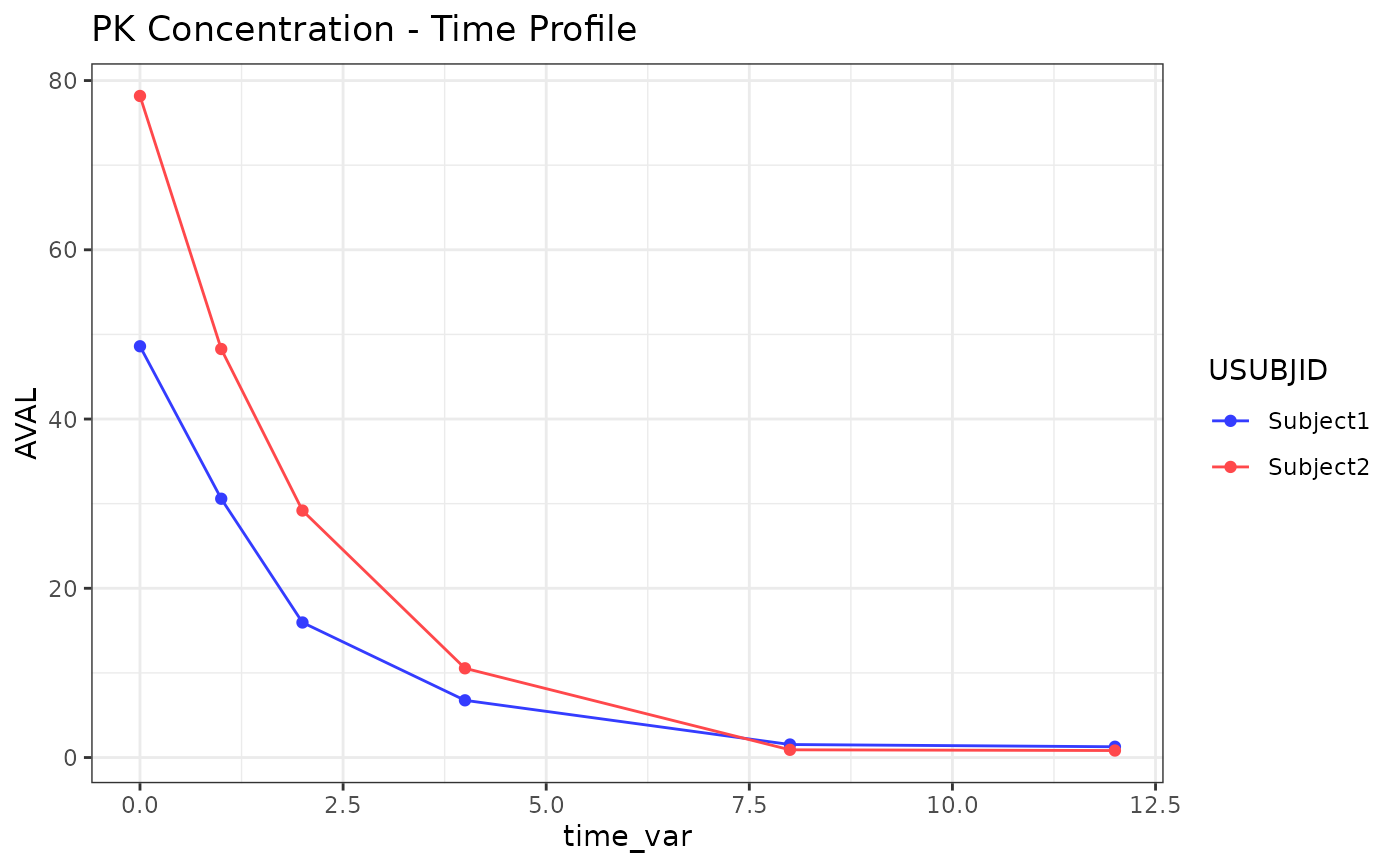
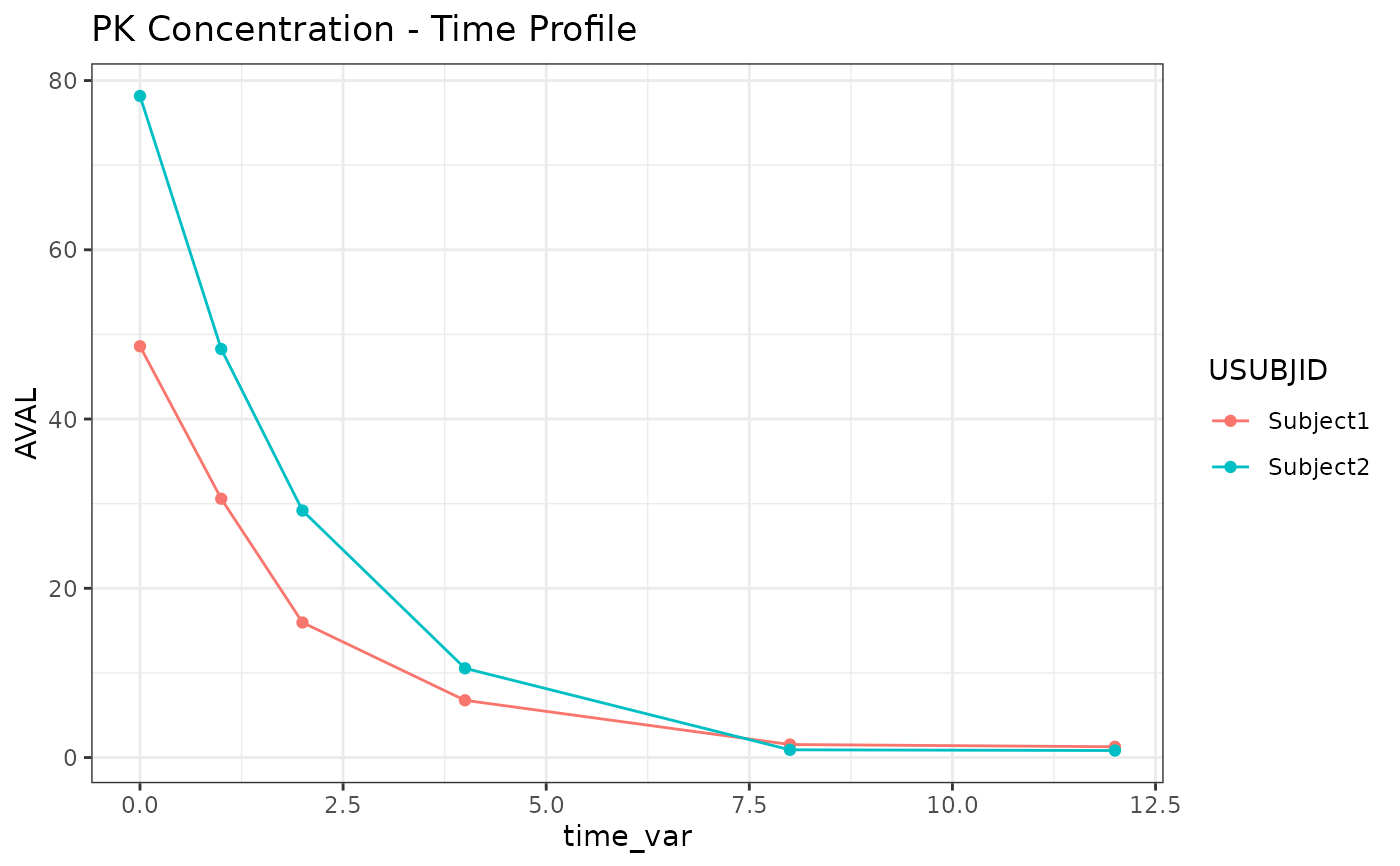
Deploying to gh-pages from @ pharmaverse/aNCA@871a818d39f535f6aef3d66d2971192fcff2b772 🚀

diff --git a/news/index.html b/news/index.html
@@ -7,7 +7,7 @@
 
     <a class="navbar-brand me-2" href="../index.html">aNCA</a>
 
-    <small class="nav-text text-muted me-auto" data-bs-toggle="tooltip" data-bs-placement="bottom" title="">0.1.0.9174</small>
+    <small class="nav-text text-muted me-auto" data-bs-toggle="tooltip" data-bs-placement="bottom" title="">0.1.0.9175</small>
 
 
     <button class="navbar-toggler" type="button" data-bs-toggle="collapse" data-bs-target="#navbar" aria-controls="navbar" aria-expanded="false" aria-label="Toggle navigation">
@@ -194,10 +194,15 @@
 <li>TMAX label corrected from “Time of CMAX” to “Time of CMAX Observation” (<a href="https://github.com/pharmaverse/aNCA/issues/787" class="external-link">#787</a>)</li>
 <li>Pagination controls in the slope selector are less buggy (<a href="https://github.com/pharmaverse/aNCA/issues/956" class="external-link">#956</a>)</li>
 </ul></div>
+<div class="section level4">
+<h4 id="tlg-development-version">TLG<a class="anchor" aria-label="anchor" href="#tlg-development-version"></a></h4>
+<ul><li>Fixed one-sided whiskers (Upper/Lower) collapsing to zero height in mean plots (<code>pkcg03</code>) (<a href="https://github.com/pharmaverse/aNCA/issues/1316" class="external-link">#1316</a>)</li>
+</ul></div>
 </div>
 <div class="section level3">
 <h3 id="dependency-changes-development-version">Dependency changes<a class="anchor" aria-label="anchor" href="#dependency-changes-development-version"></a></h3>
-<ul><li>
+<ul><li>Removed <code>tern</code> and <code>nestcolor</code> — TLG plots (<code>pkcg01</code>, <code>pkcg02</code>, <code>pkcg03</code>) now use inline ggplot2 code (<a href="https://github.com/pharmaverse/aNCA/issues/1316" class="external-link">#1316</a>)</li>
+<li>
 <code>rlistings</code>, <code>officer</code>, and <code>flextable</code> moved from Imports to Suggests — the app notifies users when these are missing (<a href="https://github.com/pharmaverse/aNCA/issues/1106" class="external-link">#1106</a>)</li>
 <li>Removed <code>methods</code>, <code>scales</code>, and <code>stringr</code> from package dependencies, replaced with base R equivalents (<a href="https://github.com/pharmaverse/aNCA/issues/1108" class="external-link">#1108</a>)</li>
 <li>Settings YAML units accept minimal format: just <code>PPTESTCD</code> and <code>PPSTRESU</code> (<a href="https://github.com/pharmaverse/aNCA/issues/1027" class="external-link">#1027</a>)</li>

diff --git a/authors.html b/authors.html
@@ -7,7 +7,7 @@
 
     <a class="navbar-brand me-2" href="index.html">aNCA</a>
 
-    <small class="nav-text text-muted me-auto" data-bs-toggle="tooltip" data-bs-placement="bottom" title="">0.1.0.9174</small>
+    <small class="nav-text text-muted me-auto" data-bs-toggle="tooltip" data-bs-placement="bottom" title="">0.1.0.9175</small>
 
 
     <button class="navbar-toggler" type="button" data-bs-toggle="collapse" data-bs-target="#navbar" aria-controls="navbar" aria-expanded="false" aria-label="Toggle navigation">
@@ -101,13 +101,13 @@
 
       <p>Suekuer E, Rodriguez G, Baertschi P, Spinner J, Kolomanski M, Aspridis L, Legras V (2025).
 “aNCA: A Dynamic Shiny App to perform NCA.”
-Version 0.1.0.9174; License: Apache-2.0, <a href="https://github.com/pharmaverse/aNCA" class="external-link">https://github.com/pharmaverse/aNCA</a>.
+Version 0.1.0.9175; License: Apache-2.0, <a href="https://github.com/pharmaverse/aNCA" class="external-link">https://github.com/pharmaverse/aNCA</a>.
 </p>
       <pre>@Unpublished{,
   title = {aNCA: A Dynamic Shiny App to perform NCA},
   author = {Ercan Suekuer and Gerardo Jose Rodriguez and Pascal Baertschi and Jana Spinner and Mateusz Kolomanski and Lucy Aspridis and Valentin Legras},
   year = {2025},
-  note = {Version 0.1.0.9174; License: Apache-2.0},
+  note = {Version 0.1.0.9175; License: Apache-2.0},
   url = {https://github.com/pharmaverse/aNCA},
 }</pre>
     </div>

diff --git a/reference/PKNCA_create_data_object.html b/reference/PKNCA_create_data_object.html
@@ -7,7 +7,7 @@
 
     <a class="navbar-brand me-2" href="../index.html">aNCA</a>
 
-    <small class="nav-text text-muted me-auto" data-bs-toggle="tooltip" data-bs-placement="bottom" title="">0.1.0.9174</small>
+    <small class="nav-text text-muted me-auto" data-bs-toggle="tooltip" data-bs-placement="bottom" title="">0.1.0.9175</small>
 
 
     <button class="navbar-toggler" type="button" data-bs-toggle="collapse" data-bs-target="#navbar" aria-controls="navbar" aria-expanded="false" aria-label="Toggle navigation">
@@ -170,7 +170,7 @@ with formula <code>DOSEA ~ AFRLT | STUDYID + DOSETRT + USUBJID</code>.</p></li>
 <span class="r-in"><span><span class="fu">PKNCA_create_data_object</span><span class="op">(</span><span class="va">adnca_data</span><span class="op">)</span></span></span>
 <span class="r-out co"><span class="r-pr">#&gt;</span> Formula for concentration:</span>
 <span class="r-out co"><span class="r-pr">#&gt;</span>  AVAL ~ AFRLT | STUDYID + PCSPEC + DOSETRT + USUBJID/PARAM</span>
-<span class="r-out co"><span class="r-pr">#&gt;</span> &lt;environment: 0x55f23db591f0&gt;</span>
+<span class="r-out co"><span class="r-pr">#&gt;</span> &lt;environment: 0x55f052dbbc90&gt;</span>
 <span class="r-out co"><span class="r-pr">#&gt;</span> Data are dense PK.</span>
 <span class="r-out co"><span class="r-pr">#&gt;</span> With 1 subjects defined in the 'USUBJID' column.</span>
 <span class="r-out co"><span class="r-pr">#&gt;</span> Nominal time column is: NFRLT</span>

diff --git a/reference/pkcg02.html b/reference/pkcg02.html
@@ -7,7 +7,7 @@
 
     <a class="navbar-brand me-2" href="../index.html">aNCA</a>
 
-    <small class="nav-text text-muted me-auto" data-bs-toggle="tooltip" data-bs-placement="bottom" title="">0.1.0.9174</small>
+    <small class="nav-text text-muted me-auto" data-bs-toggle="tooltip" data-bs-placement="bottom" title="">0.1.0.9175</small>
 
 
     <button class="navbar-toggler" type="button" data-bs-toggle="collapse" data-bs-target="#navbar" aria-controls="navbar" aria-expanded="false" aria-label="Toggle navigation">
@@ -219,7 +219,7 @@ NOTE: might require some fine tuning down the line, looks fine now</p>
 <span class="r-in"><span><span class="va">plots_log</span> <span class="op">&lt;-</span> <span class="fu">pkcg02</span><span class="op">(</span><span class="va">adnca</span>, scale <span class="op">=</span> <span class="st">"LOG"</span><span class="op">)</span></span></span>
 <span class="r-in"><span><span class="fu">plotly</span><span class="fu">::</span><span class="fu"><a href="https://rdrr.io/pkg/plotly/man/plotly_build.html" class="external-link">plotly_build</a></span><span class="op">(</span><span class="va">plots</span><span class="op">[[</span><span class="fl">1</span><span class="op">]</span><span class="op">]</span><span class="op">)</span> <span class="co"># View the first plot</span></span></span>
 <div id="htmlwidget-ac96cb3ee4656e2e9ec3" style="width:700px;height:577.5px;" class="plotly html-widget"></div>
-<script type="application/json" data-for="htmlwidget-ac96cb3ee4656e2e9ec3">{"x":{"data":[{"x":[-0.084000000000000005,0.53800000000000003,1.5109999999999999,1.5169999999999999,3.137,4.4800000000000004,6.0110000000000001,7.5899999999999999,12.044,24.033999999999999,24.654,25.573,25.576000000000001,27.042000000000002,28.606000000000002,30.126000000000001,31.646000000000001,36.142000000000003,47.893999999999998,48.533999999999999,49.417000000000002,49.482999999999997,51.042999999999999,52.439999999999998,53.991999999999997,55.415999999999997,60.015999999999998,72.007000000000005,72.674000000000007,73.631,73.676000000000002,75.040999999999997,76.634,78.135000000000005,79.620999999999995,84.156999999999996,96.022999999999996,96.495999999999995,97.593999999999994,97.596000000000004,99.064999999999998,100.59999999999999,102.075,103.554,108.092,119.946,120.592,121.542,121.58199999999999,123.048,124.636,126.021,127.505,132.173,143.80799999999999,144.328,145.28800000000001,145.37700000000001,146.74000000000001,148.35599999999999,149.88300000000001,151.52699999999999,155.82900000000001,167.833,168.399,169.38200000000001,169.38800000000001,170.95699999999999,172.44999999999999,173.934,175.39099999999999,180.017],"y":[0.111,0.73299999999999998,2.1110000000000002,2.097,3.597,1.827,0.70199999999999996,0.308,0,0,0.65100000000000002,1.9530000000000001,1.887,3.8759999999999999,1.778,0.78500000000000003,0.40500000000000003,0,0,0.70399999999999996,1.8200000000000001,2.0920000000000001,3.8660000000000001,1.913,0.85499999999999998,0.437,0,0,0.83599999999999997,1.9650000000000001,2.153,4.0049999999999999,1.7669999999999999,0.876,0.35399999999999998,0.107,0,0.379,1.9770000000000001,1.9379999999999999,3.9390000000000001,1.996,0.85199999999999998,0.52500000000000002,0,0.155,0.76900000000000002,1.9630000000000001,2.1019999999999999,3.9940000000000002,1.857,0.80000000000000004,0.40999999999999998,0,0,0.63100000000000001,1.8700000000000001,1.9419999999999999,3.637,1.839,0.96099999999999997,0.29999999999999999,0,0.051999999999999998,0.55100000000000005,1.962,2.0219999999999998,3.9740000000000002,1.9059999999999999,0.98399999999999999,0.433,0],"text":["AFRLT:  -0.084<br />AVAL: 0.111","AFRLT:   0.538<br />AVAL: 0.733","AFRLT:   1.511<br />AVAL: 2.111","AFRLT:   1.517<br />AVAL: 2.097","AFRLT:   3.137<br />AVAL: 3.597","AFRLT:   4.480<br />AVAL: 1.827","AFRLT:   6.011<br />AVAL: 0.702","AFRLT:   7.590<br />AVAL: 0.308","AFRLT:  12.044<br />AVAL: 0.000","AFRLT:  24.034<br />AVAL: 0.000","AFRLT:  24.654<br />AVAL: 0.651","AFRLT:  25.573<br />AVAL: 1.953","AFRLT:  25.576<br />AVAL: 1.887","AFRLT:  27.042<br />AVAL: 3.876","AFRLT:  28.606<br />AVAL: 1.778","AFRLT:  30.126<br />AVAL: 0.785","AFRLT:  31.646<br />AVAL: 0.405","AFRLT:  36.142<br />AVAL: 0.000","AFRLT:  47.894<br />AVAL: 0.000","AFRLT:  48.534<br />AVAL: 0.704","AFRLT:  49.417<br />AVAL: 1.820","AFRLT:  49.483<br />AVAL: 2.092","AFRLT:  51.043<br />AVAL: 3.866","AFRLT:  52.440<br />AVAL: 1.913","AFRLT:  53.992<br />AVAL: 0.855","AFRLT:  55.416<br />AVAL: 0.437","AFRLT:  60.016<br />AVAL: 0.000","AFRLT:  72.007<br />AVAL: 0.000","AFRLT:  72.674<br />AVAL: 0.836","AFRLT:  73.631<br />AVAL: 1.965","AFRLT:  73.676<br />AVAL: 2.153","AFRLT:  75.041<br />AVAL: 4.005","AFRLT:  76.634<br />AVAL: 1.767","AFRLT:  78.135<br />AVAL: 0.876","AFRLT:  79.621<br />AVAL: 0.354","AFRLT:  84.157<br />AVAL: 0.107","AFRLT:  96.023<br />AVAL: 0.000","AFRLT:  96.496<br />AVAL: 0.379","AFRLT:  97.594<br />AVAL: 1.977","AFRLT:  97.596<br />AVAL: 1.938","AFRLT:  99.065<br />AVAL: 3.939","AFRLT: 100.600<br />AVAL: 1.996","AFRLT: 102.075<br />AVAL: 0.852","AFRLT: 103.554<br />AVAL: 0.525","AFRLT: 108.092<br />AVAL: 0.000","AFRLT: 119.946<br />AVAL: 0.155","AFRLT: 120.592<br />AVAL: 0.769","AFRLT: 121.542<br />AVAL: 1.963","AFRLT: 121.582<br />AVAL: 2.102","AFRLT: 123.048<br />AVAL: 3.994","AFRLT: 124.636<br />AVAL: 1.857","AFRLT: 126.021<br />AVAL: 0.800","AFRLT: 127.505<br />AVAL: 0.410","AFRLT: 132.173<br />AVAL: 0.000","AFRLT: 143.808<br />AVAL: 0.000","AFRLT: 144.328<br />AVAL: 0.631","AFRLT: 145.288<br />AVAL: 1.870","AFRLT: 145.377<br />AVAL: 1.942","AFRLT: 146.740<br />AVAL: 3.637","AFRLT: 148.356<br />AVAL: 1.839","AFRLT: 149.883<br />AVAL: 0.961","AFRLT: 151.527<br />AVAL: 0.300","AFRLT: 155.829<br />AVAL: 0.000","AFRLT: 167.833<br />AVAL: 0.052","AFRLT: 168.399<br />AVAL: 0.551","AFRLT: 169.382<br />AVAL: 1.962","AFRLT: 169.388<br />AVAL: 2.022","AFRLT: 170.957<br />AVAL: 3.974","AFRLT: 172.450<br />AVAL: 1.906","AFRLT: 173.934<br />AVAL: 0.984","AFRLT: 175.391<br />AVAL: 0.433","AFRLT: 180.017<br />AVAL: 0.000"],"type":"scatter","mode":"lines+markers","line":{"width":1.5118110236220474,"color":"rgba(52,60,255,1)","dash":"solid"},"hoveron":"points","name":"S1-01","legendgroup":"S1-01","showlegend":true,"xaxis":"x","yaxis":"y","hoverinfo":"text","marker":{"autocolorscale":false,"color":"rgba(52,60,255,1)","opacity":1,"size":7.559055118110237,"symbol":"circle","line":{"width":1.8897637795275593,"color":"rgba(52,60,255,1)"}},"frame":null}],"layout":{"margin":{"t":91.28984157179606,"r":0,"b":46.460942070908636,"l":22.249896222498961},"paper_bgcolor":"rgba(255,255,255,1)","font":{"color":"rgba(0,0,0,1)","family":"","size":13.283520132835205},"title":{"text":"Plot of PK Concentration-Time Profile linear scale, by Cohort: S1<br><sup>Treatment Group: DrugA 5 mg, Infusion (N=72)<br>Route: INTRAVENOUS DRIP, Specimen: SERUM, Analyte: DrugA, Treatment: DrugA 5 mg, Infusion<\/sup>","font":{"color":"rgba(0,0,0,1)","family":"sans","size":18.596928185969279},"x":0,"xref":"paper"},"xaxis":{"domain":[0,1],"automargin":true,"type":"linear","autorange":true,"range":[-9.0890500000000003,189.02205000000001],"tickmode":"auto","ticktext":["-0.083","6","12","23.917","30","36","47.917","54","60","71.917","78","84","95.917","102","108","119.917","126","132","143.917","150","156","167.917","174","180"],"tickvals":[-0.083000000000000185,6,12,23.917000000000002,30,36,47.917000000000002,53.999999999999993,60,71.917000000000002,78,84,95.917000000000002,102,108.00000000000001,119.91700000000002,125.99999999999999,132,143.91700000000003,150,156,167.91700000000003,174,180],"categoryorder":"array","categoryarray":["-0.083","6","12","23.917","30","36","47.917","54","60","71.917","78","84","95.917","102","108","119.917","126","132","143.917","150","156","167.917","174","180"],"nticks":null,"ticks":"outside","tickcolor":"rgba(51,51,51,1)","ticklen":3.6529680365296811,"tickwidth":0.66417600664176002,"showticklabels":true,"tickfont":{"color":"rgba(77,77,77,1)","family":"","size":10.62681610626816},"tickangle":-0,"showline":false,"linecolor":null,"linewidth":0,"showgrid":false,"gridcolor":null,"gridwidth":0,"zeroline":false,"anchor":"y","title":{"text":"Actual time from first dose [Hours]","font":{"color":"rgba(0,0,0,1)","family":"","size":13.283520132835205}},"hoverformat":".2f"},"yaxis":{"domain":[0,1],"automargin":true,"type":"linear","autorange":true,"range":[-0.20025000000000001,4.2052499999999995],"tickmode":"auto","ticktext":["0","1","2","3","4"],"tickvals":[0,1,2,3,3.9999999999999996],"categoryorder":"array","categoryarray":["0","1","2","3","4"],"nticks":null,"ticks":"outside","tickcolor":"rgba(51,51,51,1)","ticklen":3.6529680365296811,"tickwidth":0.66417600664176002,"showticklabels":true,"tickfont":{"color":"rgba(77,77,77,1)","family":"","size":10.62681610626816},"tickangle":-0,"showline":false,"linecolor":null,"linewidth":0,"showgrid":false,"gridcolor":null,"gridwidth":0,"zeroline":false,"anchor":"x","title":{"text":"Analysis value [ug/mL]","font":{"color":"rgba(0,0,0,1)","family":"","size":13.283520132835205}},"hoverformat":".2f"},"shapes":[{"type":"rect","fillcolor":"transparent","line":{"color":"rgba(190,190,190,1)","width":1.32835201328352,"linetype":"solid"},"yref":"paper","xref":"paper","layer":"below","x0":0,"x1":1,"y0":0,"y1":1}],"showlegend":true,"legend":{"bgcolor":null,"bordercolor":null,"borderwidth":0,"font":{"color":"rgba(0,0,0,1)","family":"","size":10.62681610626816},"orientation":"h","x":0.5,"y":-0.14999999999999999,"xanchor":"center","yanchor":"top","title":{"text":"USUBJID","font":{"color":"rgba(0,0,0,1)","family":"","size":13.283520132835205}}},"hovermode":"closest","height":577.5,"barmode":"relative","annotations":[{"x":0,"y":-0.10000000000000001,"text":"","showarrow":false,"yref":"paper","xref":"paper","align":"left","parse":true}]},"config":{"doubleClick":"reset","modeBarButtonsToAdd":["hoverclosest","hovercompare"],"showSendToCloud":false},"source":"A","attrs":{"220c52843cfa":{"x":{},"y":{},"colour":{},"type":"scatter"},"220c45a3c55b":{"x":{},"y":{},"colour":{}}},"cur_data":"220c52843cfa","visdat":{"220c52843cfa":["function (y) ","x"],"220c45a3c55b":["function (y) ","x"]},"highlight":{"on":"plotly_click","persistent":false,"dynamic":false,"selectize":false,"opacityDim":0.20000000000000001,"selected":{"opacity":1},"debounce":0},"shinyEvents":["plotly_hover","plotly_click","plotly_selected","plotly_relayout","plotly_brushed","plotly_brushing","plotly_clickannotation","plotly_doubleclick","plotly_deselect","plotly_afterplot","plotly_sunburstclick"],"base_url":"https://plot.ly"},"evals":[],"jsHooks":[]}</script><span class="r-in"><span></span></span>
+<script type="application/json" data-for="htmlwidget-ac96cb3ee4656e2e9ec3">{"x":{"data":[{"x":[-0.084000000000000005,0.53800000000000003,1.5109999999999999,1.5169999999999999,3.137,4.4800000000000004,6.0110000000000001,7.5899999999999999,12.044,24.033999999999999,24.654,25.573,25.576000000000001,27.042000000000002,28.606000000000002,30.126000000000001,31.646000000000001,36.142000000000003,47.893999999999998,48.533999999999999,49.417000000000002,49.482999999999997,51.042999999999999,52.439999999999998,53.991999999999997,55.415999999999997,60.015999999999998,72.007000000000005,72.674000000000007,73.631,73.676000000000002,75.040999999999997,76.634,78.135000000000005,79.620999999999995,84.156999999999996,96.022999999999996,96.495999999999995,97.593999999999994,97.596000000000004,99.064999999999998,100.59999999999999,102.075,103.554,108.092,119.946,120.592,121.542,121.58199999999999,123.048,124.636,126.021,127.505,132.173,143.80799999999999,144.328,145.28800000000001,145.37700000000001,146.74000000000001,148.35599999999999,149.88300000000001,151.52699999999999,155.82900000000001,167.833,168.399,169.38200000000001,169.38800000000001,170.95699999999999,172.44999999999999,173.934,175.39099999999999,180.017],"y":[0.111,0.73299999999999998,2.1110000000000002,2.097,3.597,1.827,0.70199999999999996,0.308,0,0,0.65100000000000002,1.9530000000000001,1.887,3.8759999999999999,1.778,0.78500000000000003,0.40500000000000003,0,0,0.70399999999999996,1.8200000000000001,2.0920000000000001,3.8660000000000001,1.913,0.85499999999999998,0.437,0,0,0.83599999999999997,1.9650000000000001,2.153,4.0049999999999999,1.7669999999999999,0.876,0.35399999999999998,0.107,0,0.379,1.9770000000000001,1.9379999999999999,3.9390000000000001,1.996,0.85199999999999998,0.52500000000000002,0,0.155,0.76900000000000002,1.9630000000000001,2.1019999999999999,3.9940000000000002,1.857,0.80000000000000004,0.40999999999999998,0,0,0.63100000000000001,1.8700000000000001,1.9419999999999999,3.637,1.839,0.96099999999999997,0.29999999999999999,0,0.051999999999999998,0.55100000000000005,1.962,2.0219999999999998,3.9740000000000002,1.9059999999999999,0.98399999999999999,0.433,0],"text":["AFRLT:  -0.084<br />AVAL: 0.111","AFRLT:   0.538<br />AVAL: 0.733","AFRLT:   1.511<br />AVAL: 2.111","AFRLT:   1.517<br />AVAL: 2.097","AFRLT:   3.137<br />AVAL: 3.597","AFRLT:   4.480<br />AVAL: 1.827","AFRLT:   6.011<br />AVAL: 0.702","AFRLT:   7.590<br />AVAL: 0.308","AFRLT:  12.044<br />AVAL: 0.000","AFRLT:  24.034<br />AVAL: 0.000","AFRLT:  24.654<br />AVAL: 0.651","AFRLT:  25.573<br />AVAL: 1.953","AFRLT:  25.576<br />AVAL: 1.887","AFRLT:  27.042<br />AVAL: 3.876","AFRLT:  28.606<br />AVAL: 1.778","AFRLT:  30.126<br />AVAL: 0.785","AFRLT:  31.646<br />AVAL: 0.405","AFRLT:  36.142<br />AVAL: 0.000","AFRLT:  47.894<br />AVAL: 0.000","AFRLT:  48.534<br />AVAL: 0.704","AFRLT:  49.417<br />AVAL: 1.820","AFRLT:  49.483<br />AVAL: 2.092","AFRLT:  51.043<br />AVAL: 3.866","AFRLT:  52.440<br />AVAL: 1.913","AFRLT:  53.992<br />AVAL: 0.855","AFRLT:  55.416<br />AVAL: 0.437","AFRLT:  60.016<br />AVAL: 0.000","AFRLT:  72.007<br />AVAL: 0.000","AFRLT:  72.674<br />AVAL: 0.836","AFRLT:  73.631<br />AVAL: 1.965","AFRLT:  73.676<br />AVAL: 2.153","AFRLT:  75.041<br />AVAL: 4.005","AFRLT:  76.634<br />AVAL: 1.767","AFRLT:  78.135<br />AVAL: 0.876","AFRLT:  79.621<br />AVAL: 0.354","AFRLT:  84.157<br />AVAL: 0.107","AFRLT:  96.023<br />AVAL: 0.000","AFRLT:  96.496<br />AVAL: 0.379","AFRLT:  97.594<br />AVAL: 1.977","AFRLT:  97.596<br />AVAL: 1.938","AFRLT:  99.065<br />AVAL: 3.939","AFRLT: 100.600<br />AVAL: 1.996","AFRLT: 102.075<br />AVAL: 0.852","AFRLT: 103.554<br />AVAL: 0.525","AFRLT: 108.092<br />AVAL: 0.000","AFRLT: 119.946<br />AVAL: 0.155","AFRLT: 120.592<br />AVAL: 0.769","AFRLT: 121.542<br />AVAL: 1.963","AFRLT: 121.582<br />AVAL: 2.102","AFRLT: 123.048<br />AVAL: 3.994","AFRLT: 124.636<br />AVAL: 1.857","AFRLT: 126.021<br />AVAL: 0.800","AFRLT: 127.505<br />AVAL: 0.410","AFRLT: 132.173<br />AVAL: 0.000","AFRLT: 143.808<br />AVAL: 0.000","AFRLT: 144.328<br />AVAL: 0.631","AFRLT: 145.288<br />AVAL: 1.870","AFRLT: 145.377<br />AVAL: 1.942","AFRLT: 146.740<br />AVAL: 3.637","AFRLT: 148.356<br />AVAL: 1.839","AFRLT: 149.883<br />AVAL: 0.961","AFRLT: 151.527<br />AVAL: 0.300","AFRLT: 155.829<br />AVAL: 0.000","AFRLT: 167.833<br />AVAL: 0.052","AFRLT: 168.399<br />AVAL: 0.551","AFRLT: 169.382<br />AVAL: 1.962","AFRLT: 169.388<br />AVAL: 2.022","AFRLT: 170.957<br />AVAL: 3.974","AFRLT: 172.450<br />AVAL: 1.906","AFRLT: 173.934<br />AVAL: 0.984","AFRLT: 175.391<br />AVAL: 0.433","AFRLT: 180.017<br />AVAL: 0.000"],"type":"scatter","mode":"lines+markers","line":{"width":1.5118110236220474,"color":"rgba(248,118,109,1)","dash":"solid"},"hoveron":"points","name":"S1-01","legendgroup":"S1-01","showlegend":true,"xaxis":"x","yaxis":"y","hoverinfo":"text","marker":{"autocolorscale":false,"color":"rgba(248,118,109,1)","opacity":1,"size":7.559055118110237,"symbol":"circle","line":{"width":1.8897637795275593,"color":"rgba(248,118,109,1)"}},"frame":null}],"layout":{"margin":{"t":72.692913385826785,"r":0,"b":48.851975694818975,"l":24.109589041095894},"plot_bgcolor":"rgba(255,255,255,1)","paper_bgcolor":"rgba(255,255,255,1)","font":{"color":"rgba(0,0,0,1)","family":"","size":14.611872146118724},"xaxis":{"domain":[0,1],"automargin":true,"type":"linear","autorange":true,"range":[-9.0890500000000003,189.02205000000001],"tickmode":"auto","ticktext":["-0.083","6","12","23.917","30","36","47.917","54","60","71.917","78","84","95.917","102","108","119.917","126","132","143.917","150","156","167.917","174","180"],"tickvals":[-0.083000000000000185,6,12,23.917000000000002,30,36,47.917000000000002,53.999999999999993,60,71.917000000000002,78,84,95.917000000000002,102,108.00000000000001,119.91700000000002,125.99999999999999,132,143.91700000000003,150,156,167.91700000000003,174,180],"categoryorder":"array","categoryarray":["-0.083","6","12","23.917","30","36","47.917","54","60","71.917","78","84","95.917","102","108","119.917","126","132","143.917","150","156","167.917","174","180"],"nticks":null,"ticks":"outside","tickcolor":"rgba(51,51,51,1)","ticklen":3.6529680365296811,"tickwidth":0.66417600664176002,"showticklabels":true,"tickfont":{"color":"rgba(77,77,77,1)","family":"","size":11.68949771689498},"tickangle":-0,"showline":false,"linecolor":null,"linewidth":0,"showgrid":true,"gridcolor":"rgba(235,235,235,1)","gridwidth":0.66417600664176002,"zeroline":false,"anchor":"y","title":{"text":"Actual time from first dose [Hours]","font":{"color":"rgba(0,0,0,1)","family":"","size":14.611872146118724}},"hoverformat":".2f"},"yaxis":{"domain":[0,1],"automargin":true,"type":"linear","autorange":true,"range":[-0.20025000000000001,4.2052499999999995],"tickmode":"auto","ticktext":["0","1","2","3","4"],"tickvals":[0,1,2,3,3.9999999999999996],"categoryorder":"array","categoryarray":["0","1","2","3","4"],"nticks":null,"ticks":"outside","tickcolor":"rgba(51,51,51,1)","ticklen":3.6529680365296811,"tickwidth":0.66417600664176002,"showticklabels":true,"tickfont":{"color":"rgba(77,77,77,1)","family":"","size":11.68949771689498},"tickangle":-0,"showline":false,"linecolor":null,"linewidth":0,"showgrid":true,"gridcolor":"rgba(235,235,235,1)","gridwidth":0.66417600664176002,"zeroline":false,"anchor":"x","title":{"text":"Analysis value [ug/mL]","font":{"color":"rgba(0,0,0,1)","family":"","size":14.611872146118724}},"hoverformat":".2f"},"shapes":[{"type":"rect","fillcolor":"rgba(255,255,255,1)","line":{"color":"rgba(51,51,51,1)","width":0.66417600664176002,"linetype":"solid"},"yref":"paper","xref":"paper","layer":"below","x0":0,"x1":1,"y0":0,"y1":1}],"showlegend":true,"legend":{"bgcolor":"rgba(255,255,255,1)","bordercolor":"transparent","borderwidth":1.8897637795275593,"font":{"color":"rgba(0,0,0,1)","family":"","size":11.68949771689498},"title":{"text":"USUBJID","font":{"color":"rgba(0,0,0,1)","family":"","size":14.611872146118724}}},"hovermode":"closest","height":577.5,"barmode":"relative","title":{"text":"Plot of PK Concentration-Time Profile linear scale, by Cohort: S1<br><sup>Treatment Group: DrugA 5 mg, Infusion (N=72)<br>Route: INTRAVENOUS DRIP, Specimen: SERUM, Analyte: DrugA, Treatment: DrugA 5 mg, Infusion<\/sup>"},"annotations":[{"x":0,"y":-0.10000000000000001,"text":"","showarrow":false,"yref":"paper","xref":"paper","align":"left","parse":true}]},"config":{"doubleClick":"reset","modeBarButtonsToAdd":["hoverclosest","hovercompare"],"showSendToCloud":false},"source":"A","attrs":{"219371da0718":{"x":{},"y":{},"colour":{},"type":"scatter"},"21931478d636":{"x":{},"y":{},"colour":{}}},"cur_data":"219371da0718","visdat":{"219371da0718":["function (y) ","x"],"21931478d636":["function (y) ","x"]},"highlight":{"on":"plotly_click","persistent":false,"dynamic":false,"selectize":false,"opacityDim":0.20000000000000001,"selected":{"opacity":1},"debounce":0},"shinyEvents":["plotly_hover","plotly_click","plotly_selected","plotly_relayout","plotly_brushed","plotly_brushing","plotly_clickannotation","plotly_doubleclick","plotly_deselect","plotly_afterplot","plotly_sunburstclick"],"base_url":"https://plot.ly"},"evals":[],"jsHooks":[]}</script><span class="r-in"><span></span></span>
 </code></pre></div>
     </div>
   </main><aside class="col-md-3"><nav id="toc" aria-label="Table of contents"><h2>On this page</h2>

diff --git a/404.html b/404.html
@@ -21,7 +21,7 @@
 
     <a class="navbar-brand me-2" href="https://pharmaverse.github.io/aNCA/index.html">aNCA</a>
 
-    <small class="nav-text text-muted me-auto" data-bs-toggle="tooltip" data-bs-placement="bottom" title="">0.1.0.9174</small>
+    <small class="nav-text text-muted me-auto" data-bs-toggle="tooltip" data-bs-placement="bottom" title="">0.1.0.9175</small>
 
 
     <button class="navbar-toggler" type="button" data-bs-toggle="collapse" data-bs-target="#navbar" aria-controls="navbar" aria-expanded="false" aria-label="Toggle navigation">

diff --git a/AGENTS.html b/AGENTS.html
@@ -7,7 +7,7 @@
 
     <a class="navbar-brand me-2" href="index.html">aNCA</a>
 
-    <small class="nav-text text-muted me-auto" data-bs-toggle="tooltip" data-bs-placement="bottom" title="">0.1.0.9174</small>
+    <small class="nav-text text-muted me-auto" data-bs-toggle="tooltip" data-bs-placement="bottom" title="">0.1.0.9175</small>
 
 
     <button class="navbar-toggler" type="button" data-bs-toggle="collapse" data-bs-target="#navbar" aria-controls="navbar" aria-expanded="false" aria-label="Toggle navigation">

diff --git a/CODE_OF_CONDUCT.html b/CODE_OF_CONDUCT.html
@@ -7,7 +7,7 @@
 
     <a class="navbar-brand me-2" href="index.html">aNCA</a>
 
-    <small class="nav-text text-muted me-auto" data-bs-toggle="tooltip" data-bs-placement="bottom" title="">0.1.0.9174</small>
+    <small class="nav-text text-muted me-auto" data-bs-toggle="tooltip" data-bs-placement="bottom" title="">0.1.0.9175</small>
 
 
     <button class="navbar-toggler" type="button" data-bs-toggle="collapse" data-bs-target="#navbar" aria-controls="navbar" aria-expanded="false" aria-label="Toggle navigation">

diff --git a/CONTRIBUTING.html b/CONTRIBUTING.html
@@ -7,7 +7,7 @@
 
     <a class="navbar-brand me-2" href="index.html">aNCA</a>
 
-    <small class="nav-text text-muted me-auto" data-bs-toggle="tooltip" data-bs-placement="bottom" title="">0.1.0.9174</small>
+    <small class="nav-text text-muted me-auto" data-bs-toggle="tooltip" data-bs-placement="bottom" title="">0.1.0.9175</small>
 
 
     <button class="navbar-toggler" type="button" data-bs-toggle="collapse" data-bs-target="#navbar" aria-controls="navbar" aria-expanded="false" aria-label="Toggle navigation">

diff --git a/LICENSE.html b/LICENSE.html
@@ -7,7 +7,7 @@
 
     <a class="navbar-brand me-2" href="index.html">aNCA</a>
 
-    <small class="nav-text text-muted me-auto" data-bs-toggle="tooltip" data-bs-placement="bottom" title="">0.1.0.9174</small>
+    <small class="nav-text text-muted me-auto" data-bs-toggle="tooltip" data-bs-placement="bottom" title="">0.1.0.9175</small>
 
 
     <button class="navbar-toggler" type="button" data-bs-toggle="collapse" data-bs-target="#navbar" aria-controls="navbar" aria-expanded="false" aria-label="Toggle navigation">

diff --git a/PULL_REQUEST_TEMPLATE.html b/PULL_REQUEST_TEMPLATE.html
@@ -7,7 +7,7 @@
 
     <a class="navbar-brand me-2" href="index.html">aNCA</a>
 
-    <small class="nav-text text-muted me-auto" data-bs-toggle="tooltip" data-bs-placement="bottom" title="">0.1.0.9174</small>
+    <small class="nav-text text-muted me-auto" data-bs-toggle="tooltip" data-bs-placement="bottom" title="">0.1.0.9175</small>
 
 
     <button class="navbar-toggler" type="button" data-bs-toggle="collapse" data-bs-target="#navbar" aria-controls="navbar" aria-expanded="false" aria-label="Toggle navigation">

diff --git a/articles/FAQs.html b/articles/FAQs.html
@@ -25,7 +25,7 @@
 
     <a class="navbar-brand me-2" href="../index.html">aNCA</a>
 
-    <small class="nav-text text-muted me-auto" data-bs-toggle="tooltip" data-bs-placement="bottom" title="">0.1.0.9174</small>
+    <small class="nav-text text-muted me-auto" data-bs-toggle="tooltip" data-bs-placement="bottom" title="">0.1.0.9175</small>
 
 
     <button class="navbar-toggler" type="button" data-bs-toggle="collapse" data-bs-target="#navbar" aria-controls="navbar" aria-expanded="false" aria-label="Toggle navigation">

diff --git a/articles/aNCA.html b/articles/aNCA.html
@@ -25,7 +25,7 @@
 
     <a class="navbar-brand me-2" href="../index.html">aNCA</a>
 
-    <small class="nav-text text-muted me-auto" data-bs-toggle="tooltip" data-bs-placement="bottom" title="">0.1.0.9174</small>
+    <small class="nav-text text-muted me-auto" data-bs-toggle="tooltip" data-bs-placement="bottom" title="">0.1.0.9175</small>
 
 
     <button class="navbar-toggler" type="button" data-bs-toggle="collapse" data-bs-target="#navbar" aria-controls="navbar" aria-expanded="false" aria-label="Toggle navigation">